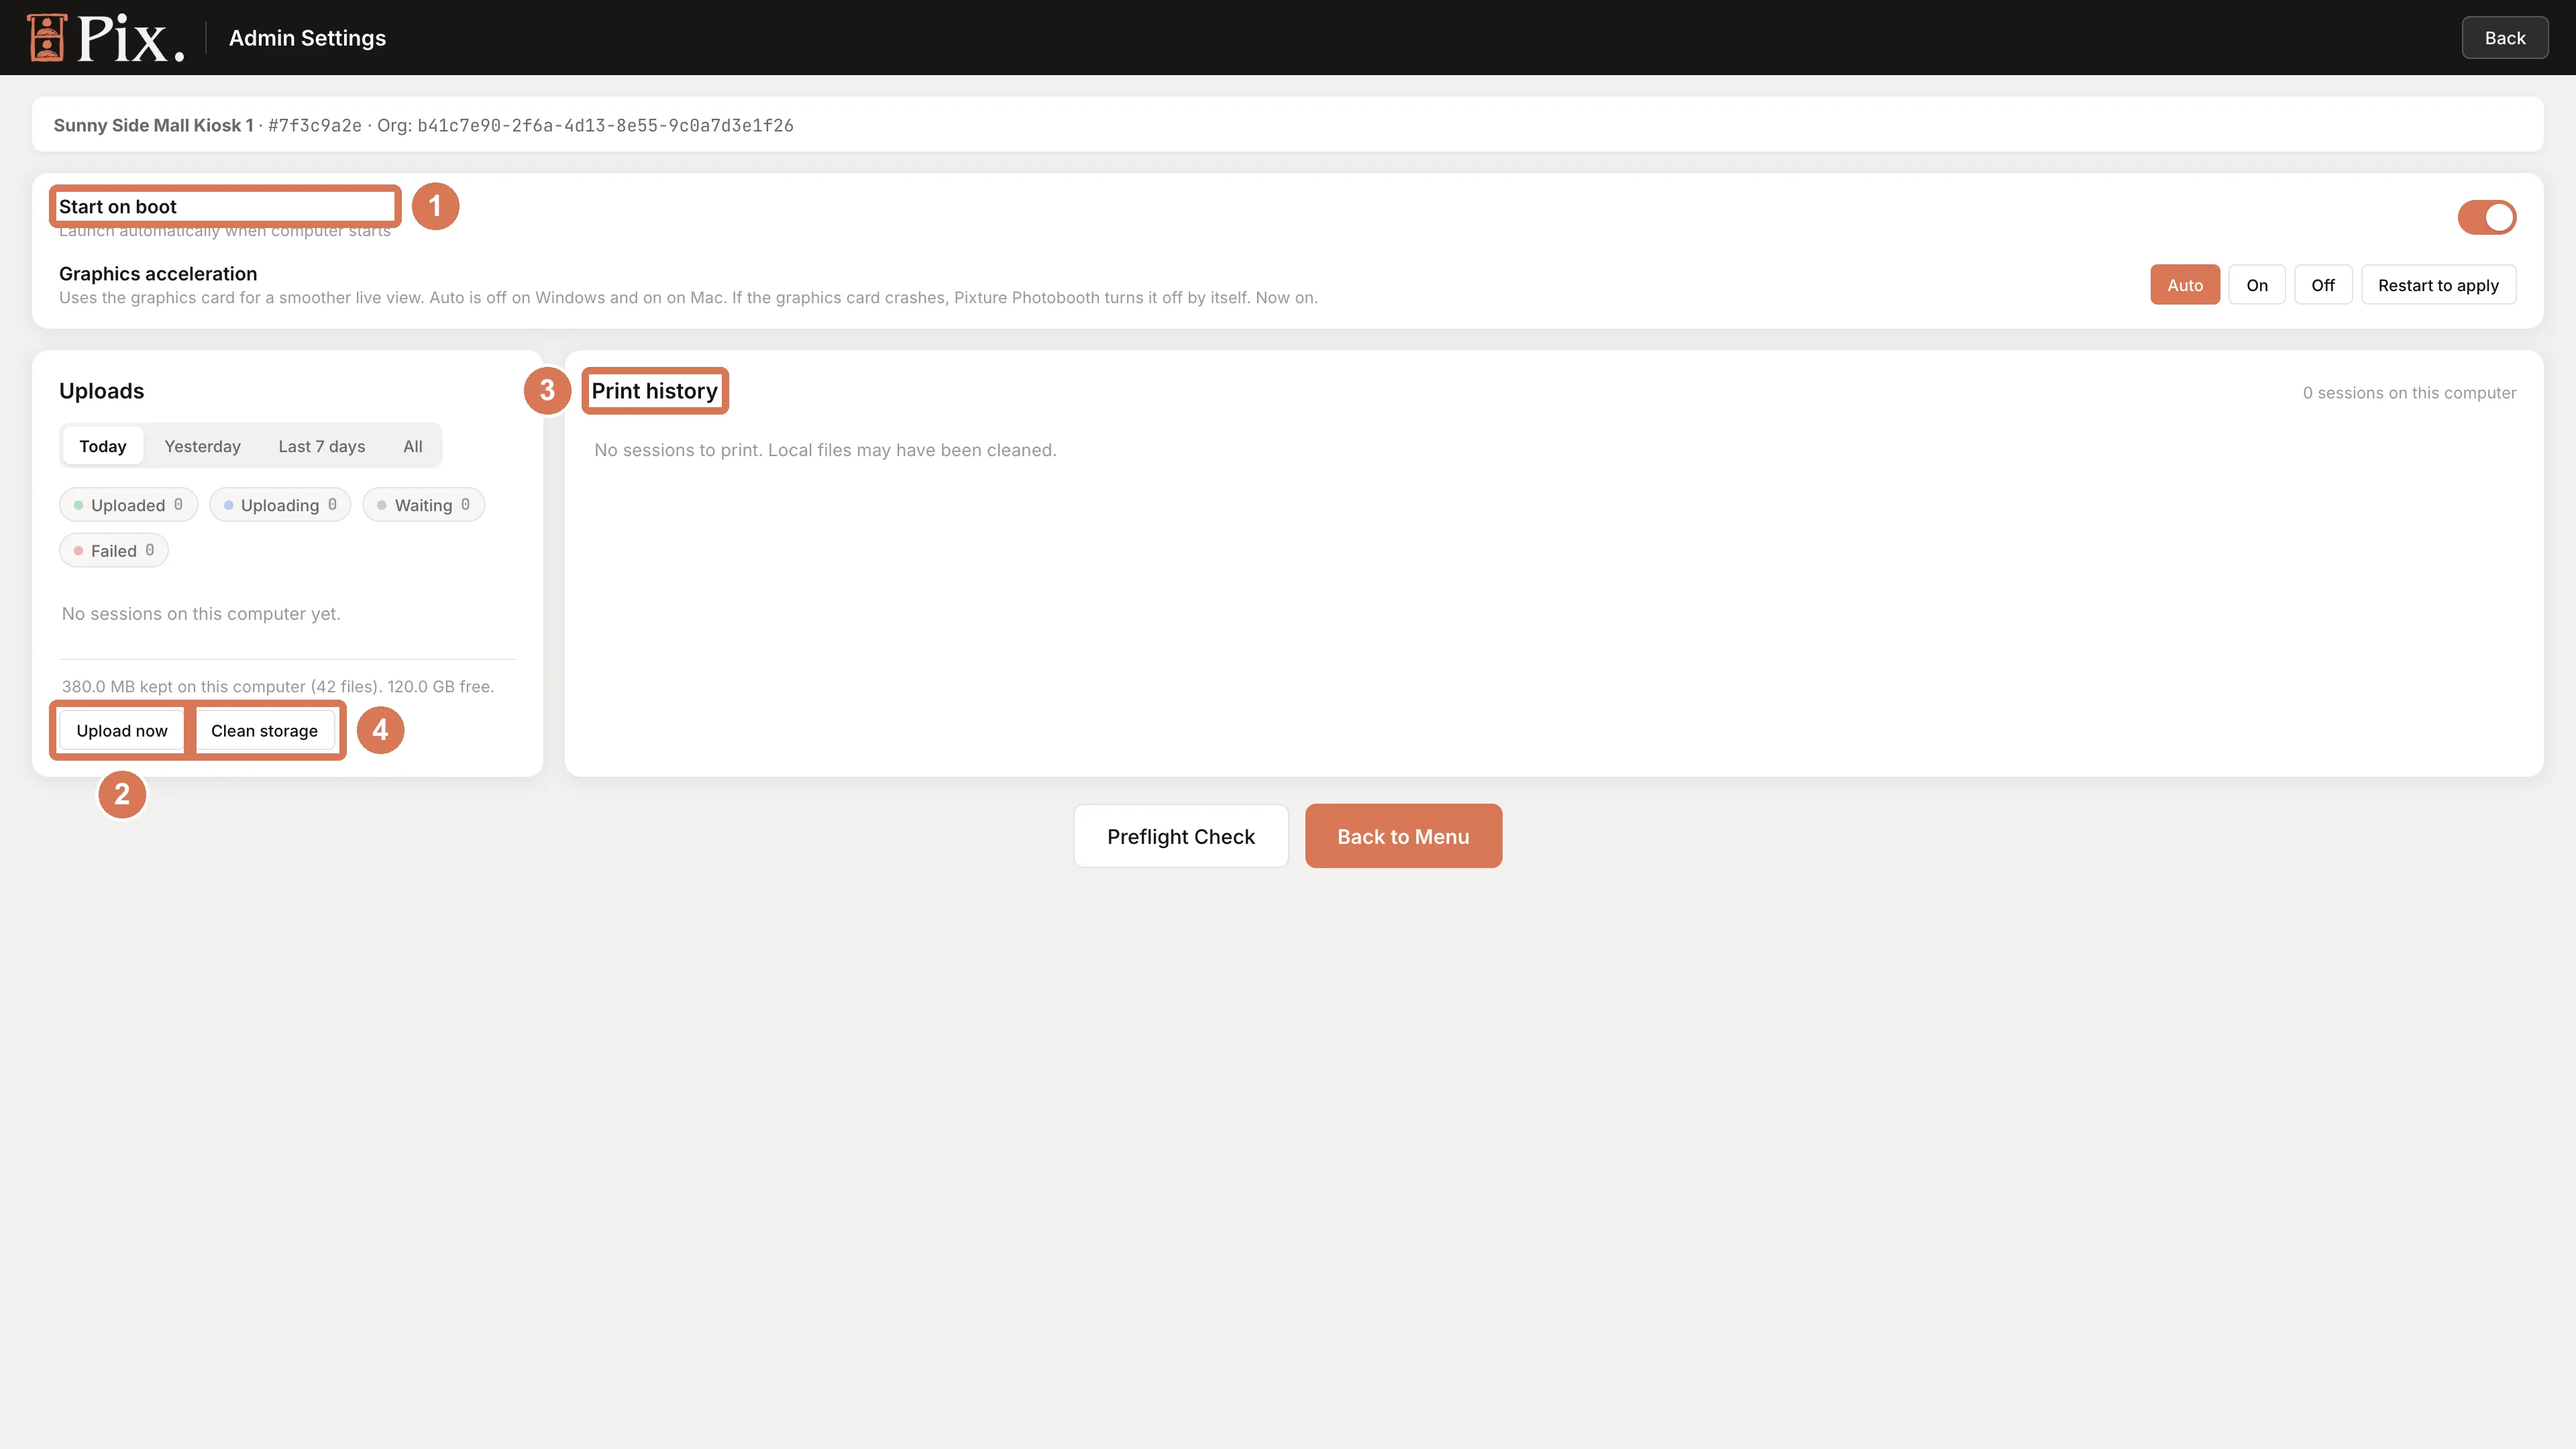
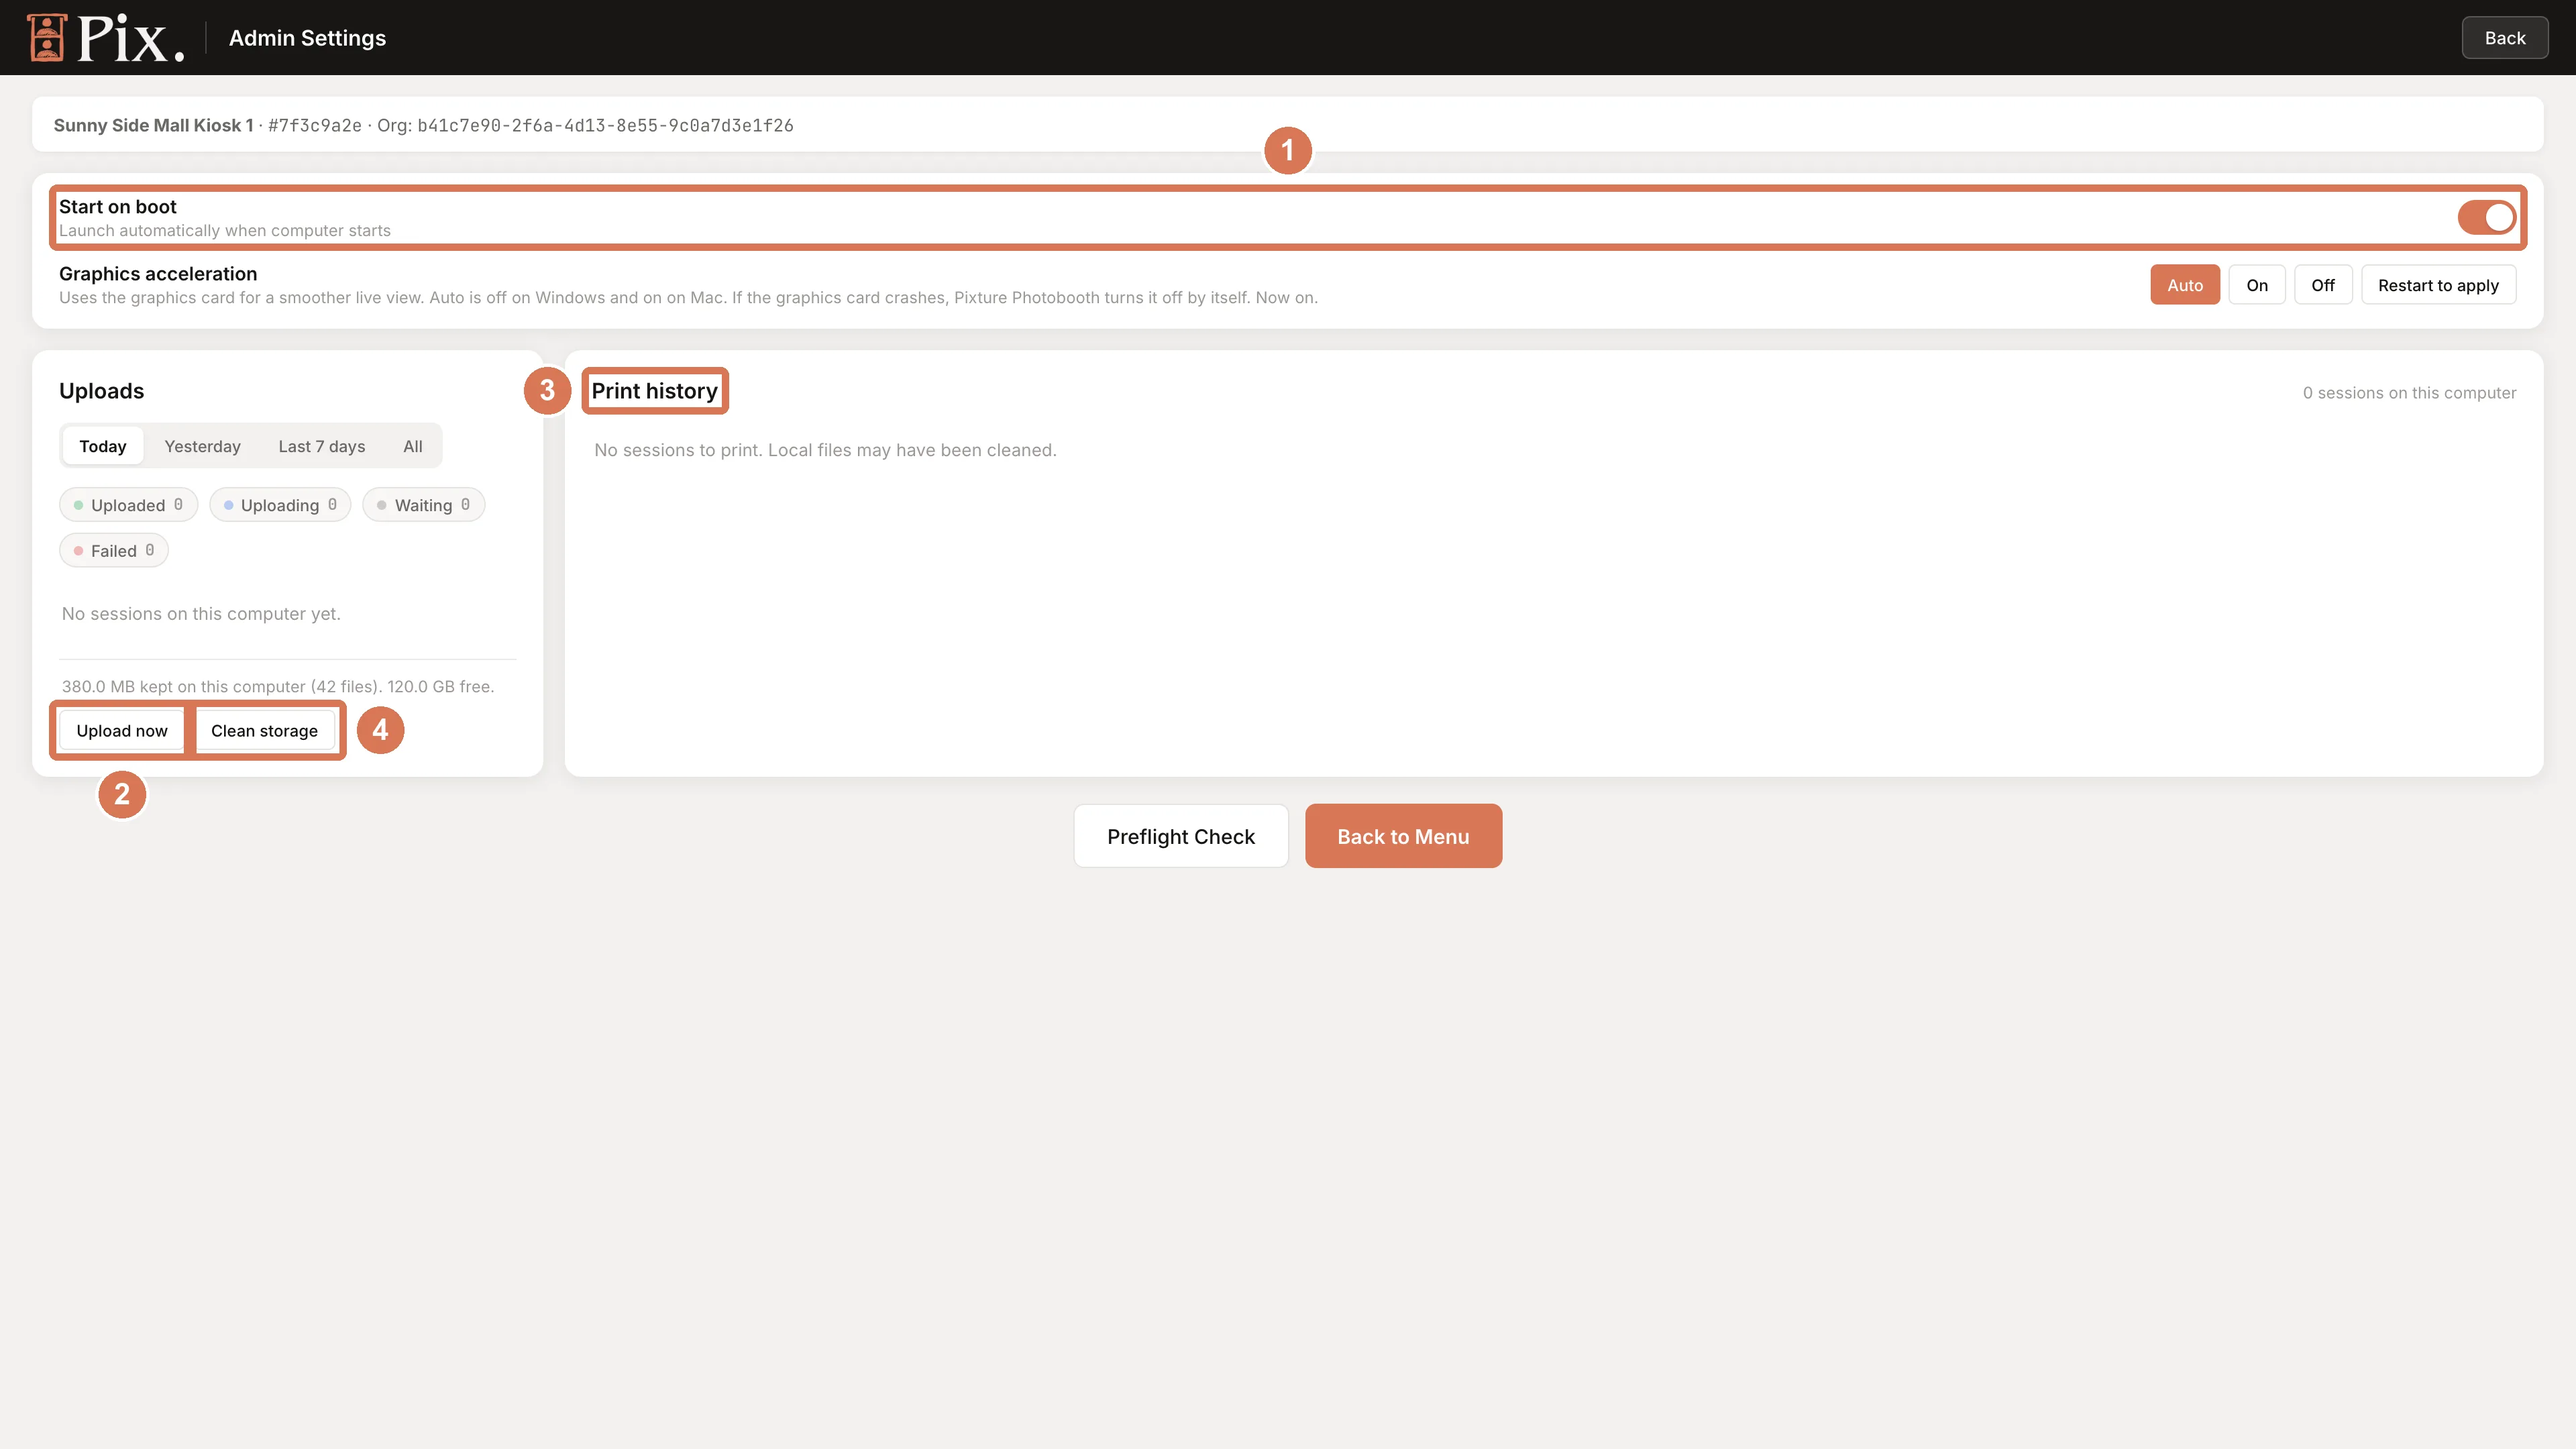
docs(tutorials): operator menu Admin shot outlines the whole Start on boot row

Changed region(s): [[0.0, 0.0931, 1.0, 0.1861]]

diff --git a/scripts/shots/tutorials/pr0_shots.py b/scripts/shots/tutorials/pr0_shots.py
@@ -63,7 +63,7 @@ def operator_menu():
               crop=[0, 0, 2880, 3180])
     booth(p, "pin-pad", "pin", ["Enter Admin PIN", ("✓", "right"), "Cancel"])
     booth(p, "menu", "menu", ["Camera Settings", "Printer Settings", "Capture Settings", "Hardware API", "Admin Panel", ("Start Booth", "below")])
-    booth(p, "admin-panel", "admin", [("Start on boot", "right"), ("Upload now", "below"), "Print history", ("Clean storage", "right")])
+    booth(p, "admin-panel", "admin", [("^^Start on boot", "above"), ("Upload now", "below"), "Print history", ("Clean storage", "right")])
 
 
 def flash():
